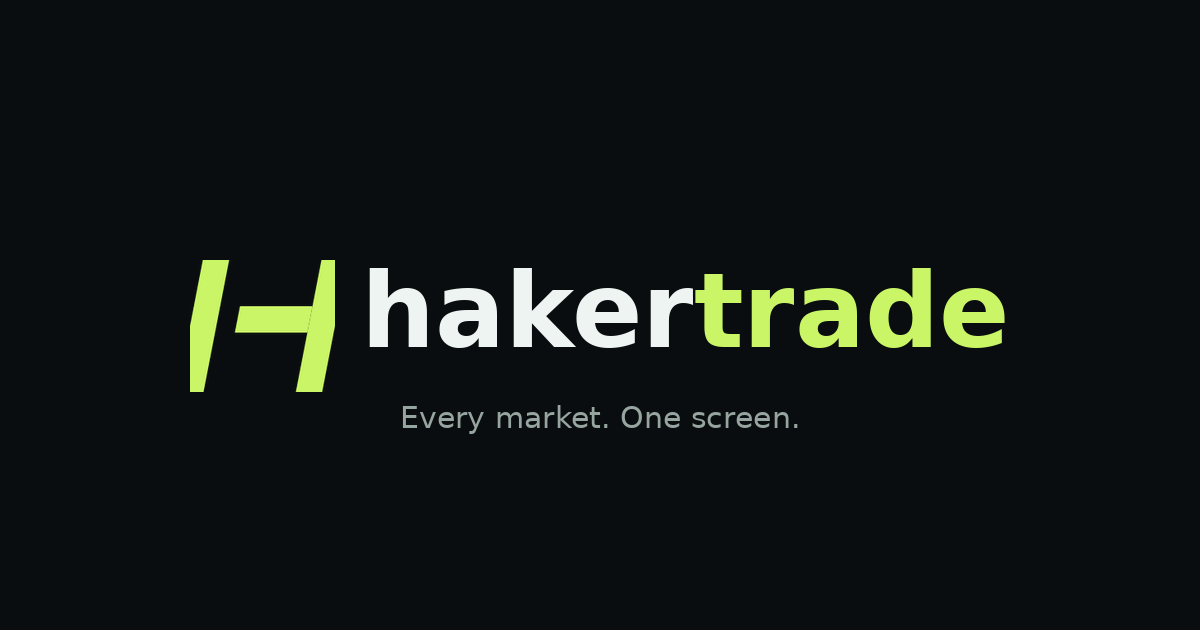
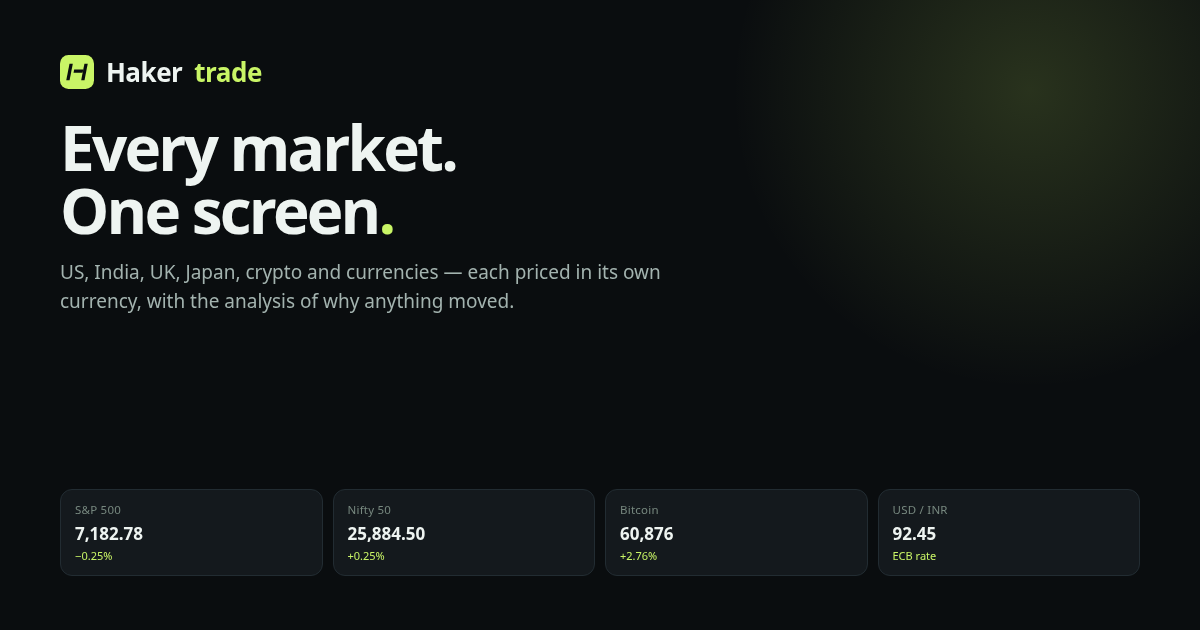
hakertrade: new card, and a description that matches the product
The card was the old wordmark on a flat background. It is now the current brand: the mark,
the headline, and four real instruments — S&P 500, Nifty 50, Bitcoin and USD/INR — because
the one thing this project does that others do not is price six markets in their own
currencies on one screen.

The description said five markets and listed email alerts. It now says six, names the currency
region, and describes the thing that is actually hard to build: splitting a move into index,
sector and company. Also mentions the screener, comparison, cost basis and Telegram, and adds
the data sources to the stack list — Binance, ECB, Yahoo — because that is the interesting
engineering, not the framework.

Link moved to hakertrade.xyz, the custom domain.

diff --git a/web/index.html b/web/index.html
@@ -420,7 +420,14 @@
               <h3>hakertrade</h3>
 
               <p>
-                A market terminal for people who follow more than one market. Live quotes across the US, India, the UK, Japan and crypto &mdash; each priced in its own currency &mdash; with a charting engine, watchlists, email price alerts and an AI copilot that cites its sources.
+                A market terminal for people who follow more than one market. Six regions
+                &mdash; the US, India, the UK, Japan, crypto and currencies &mdash; each
+                instrument priced in its own currency, so an Indian listing reads in rupees
+                and a Tokyo one in yen without a conversion step. Every move is split into
+                what the index did, what the sector did, and what was specific to the
+                company. A screener, side-by-side comparison, watchlists with cost basis,
+                alerts by email and Telegram, and an assistant that calls real market tools
+                and lists the sources it used.
               </p>
 
               <ul class="work__list">
@@ -429,11 +436,12 @@
                 <li>TypeScript</li>
                 <li>Cloudflare Workers</li>
                 <li>Postgres</li>
+                <li>Binance · ECB · Yahoo</li>
               </ul>
 
               <div class="work__links">
                 <a
-                  href="https://hakertrade.vercel.app"
+                  href="https://hakertrade.xyz"
                   target="_blank"
                   rel="noopener noreferrer"
                   class="link__text"
@@ -451,7 +459,7 @@
 
             <div class="work__image-box">
               <img
-                src="./assets/project-8.png"
+                src="./assets/project-8.png?v=2"
                 class="work__image"
                 alt="hakertrade market terminal"
               />

diff --git a/web/work/hakertrade.html b/web/work/hakertrade.html
@@ -62,7 +62,7 @@
 
       <div class="work__links cs-links">
         <a
-          href="https://hakertrade.vercel.app"
+          href="https://hakertrade.xyz"
           class="link__text"
           target="_blank"
           rel="noopener noreferrer"
